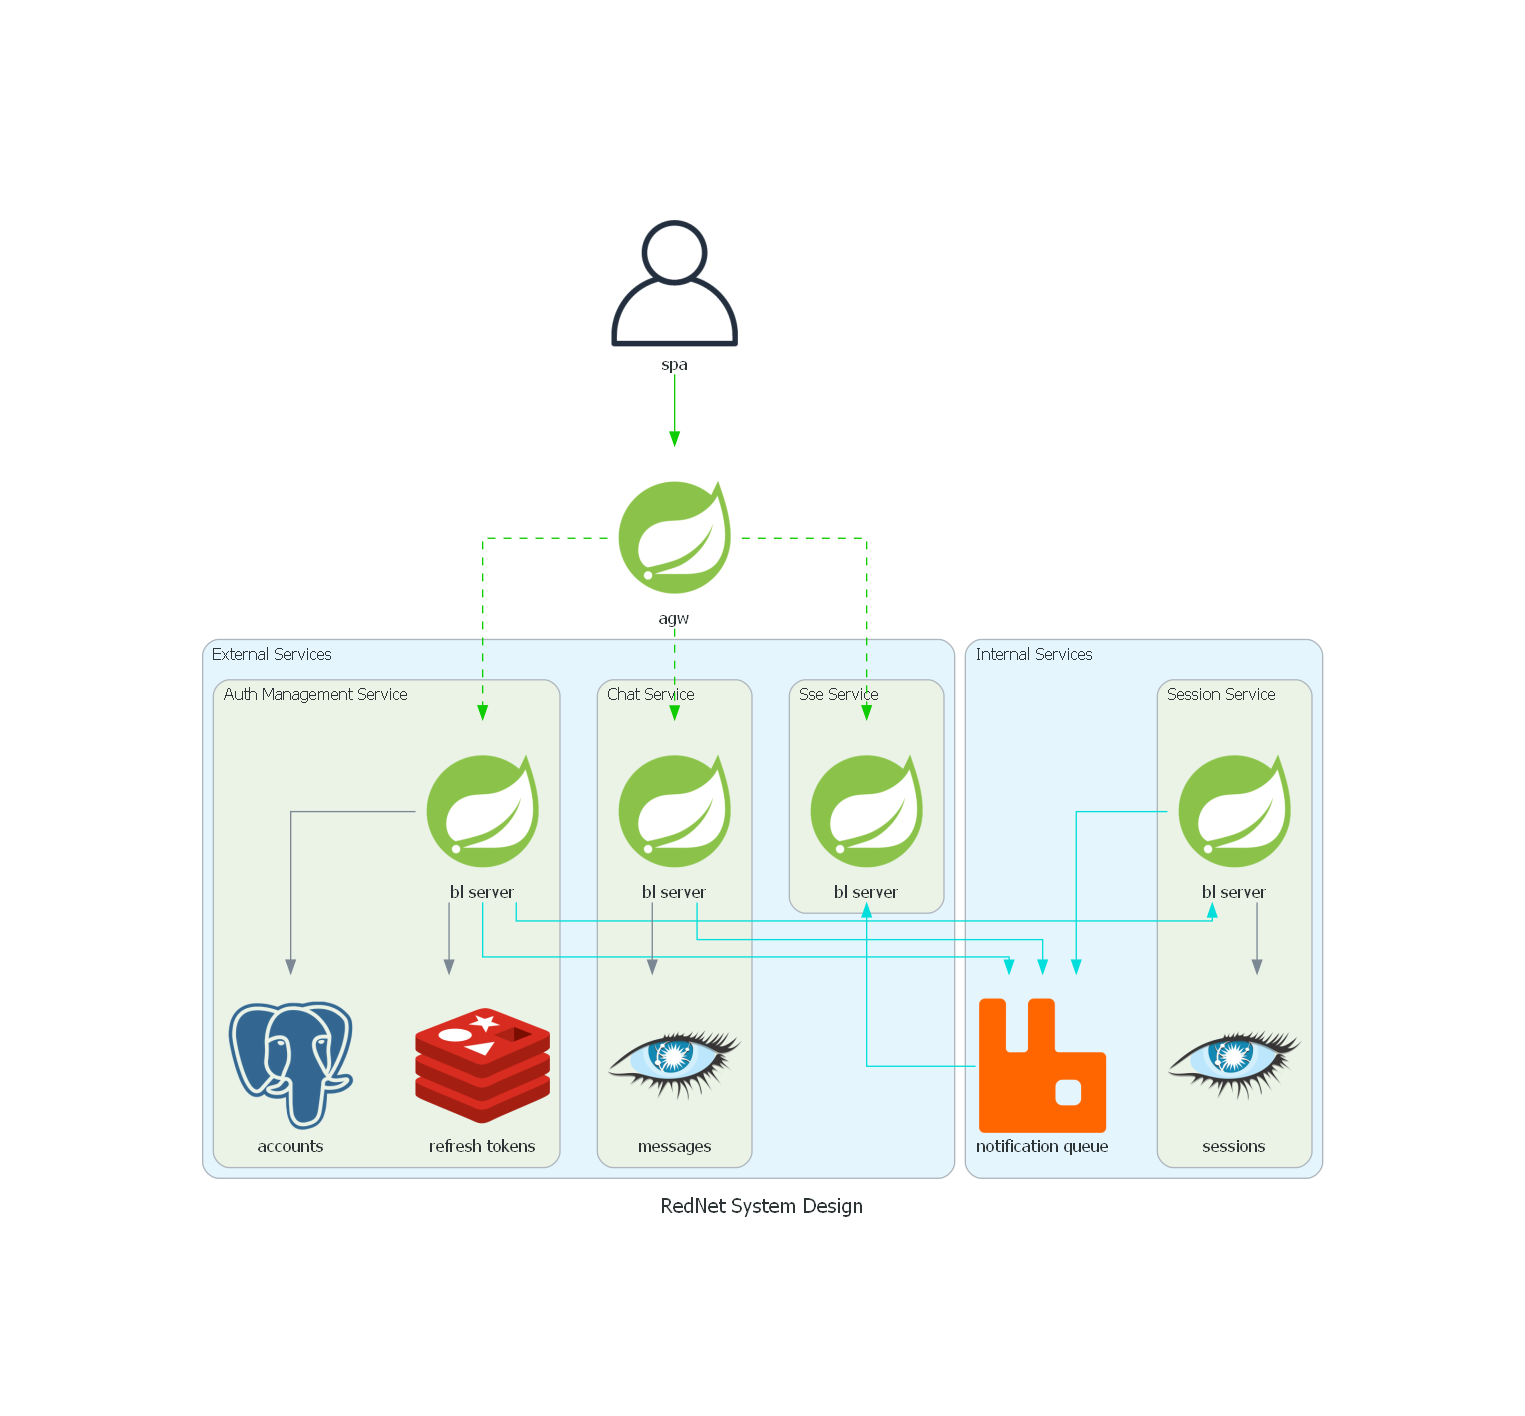
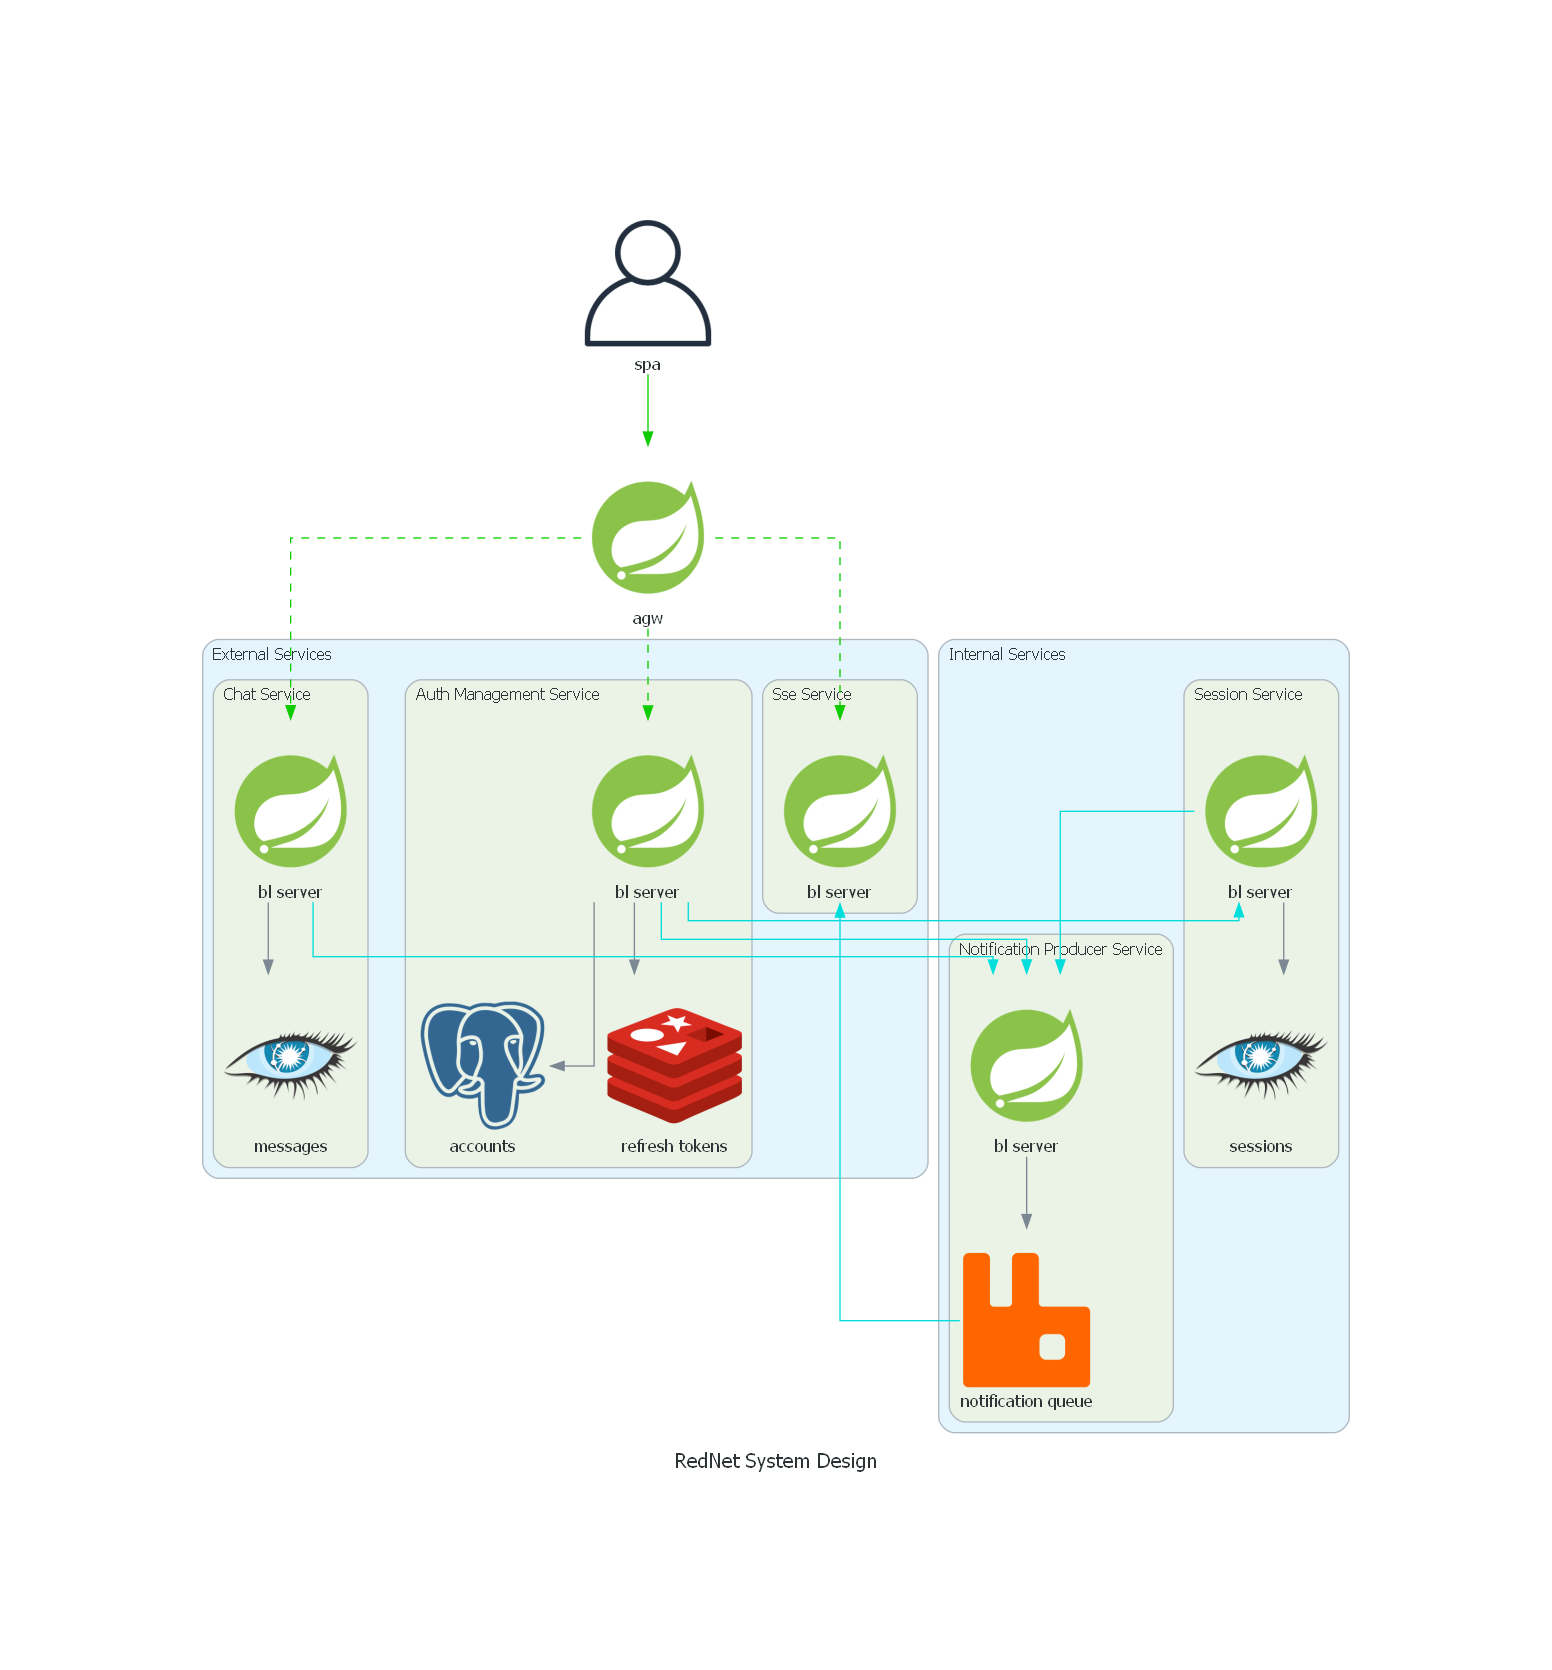
diagram change

Changed region(s): [[0.1233, 0.2797, 0.8938, 0.9011], [0.3698, 0.1243, 0.4931, 0.2486]]

diff --git a/system-design-diagram.py b/system-design-diagram.py
@@ -33,7 +33,9 @@ with Diagram(
             messages_db = Cassandra("messages")
 
     with Cluster("Internal Services"):
-        notification_queue = RabbitMQ("notification queue")
+        with Cluster("Notification Producer Service"):
+            notification_server = Spring("bl server")
+            notification_queue = RabbitMQ("notification queue")
 
         with Cluster("Session Service"):
             session_logic_server = Spring("bl server")
@@ -57,6 +59,6 @@ with Diagram(
     auth_logic_server >> refresh_tokens_db
     chat_logic_server >> messages_db
     session_logic_server >> sessions_db
-    notifiable_service_group >> server_to_server_edge >> notification_queue
+    notifiable_service_group >> server_to_server_edge >> notification_server >> notification_queue
     notification_queue >> server_to_server_edge >> sse_logic_server
 

diff --git a/README.md b/README.md
@@ -19,6 +19,7 @@ in progress...
 BackEnd stack:
 
 [![Java](https://img.shields.io/badge/java-%23ED8B00.svg?style=for-the-badge&logo=java&logoColor=white)](https://www.java.com/)
+[![Spring](https://img.shields.io/badge/spring-%236DB33F.svg?style=for-the-badge&logo=spring&logoColor=white)](https://spring.io/)
 [![Postgres](https://img.shields.io/badge/postgres-%23316192.svg?style=for-the-badge&logo=postgresql&logoColor=white)](https://www.postgresql.org/)
 [![ApacheCassandra](https://img.shields.io/badge/cassandra-%231287B1.svg?style=for-the-badge&logo=apache-cassandra&logoColor=white)](https://cassandra.apache.org/)
 [![Redis](https://img.shields.io/badge/redis-%23DD0031.svg?style=for-the-badge&logo=redis&logoColor=white)](https://www.redis.io/)
